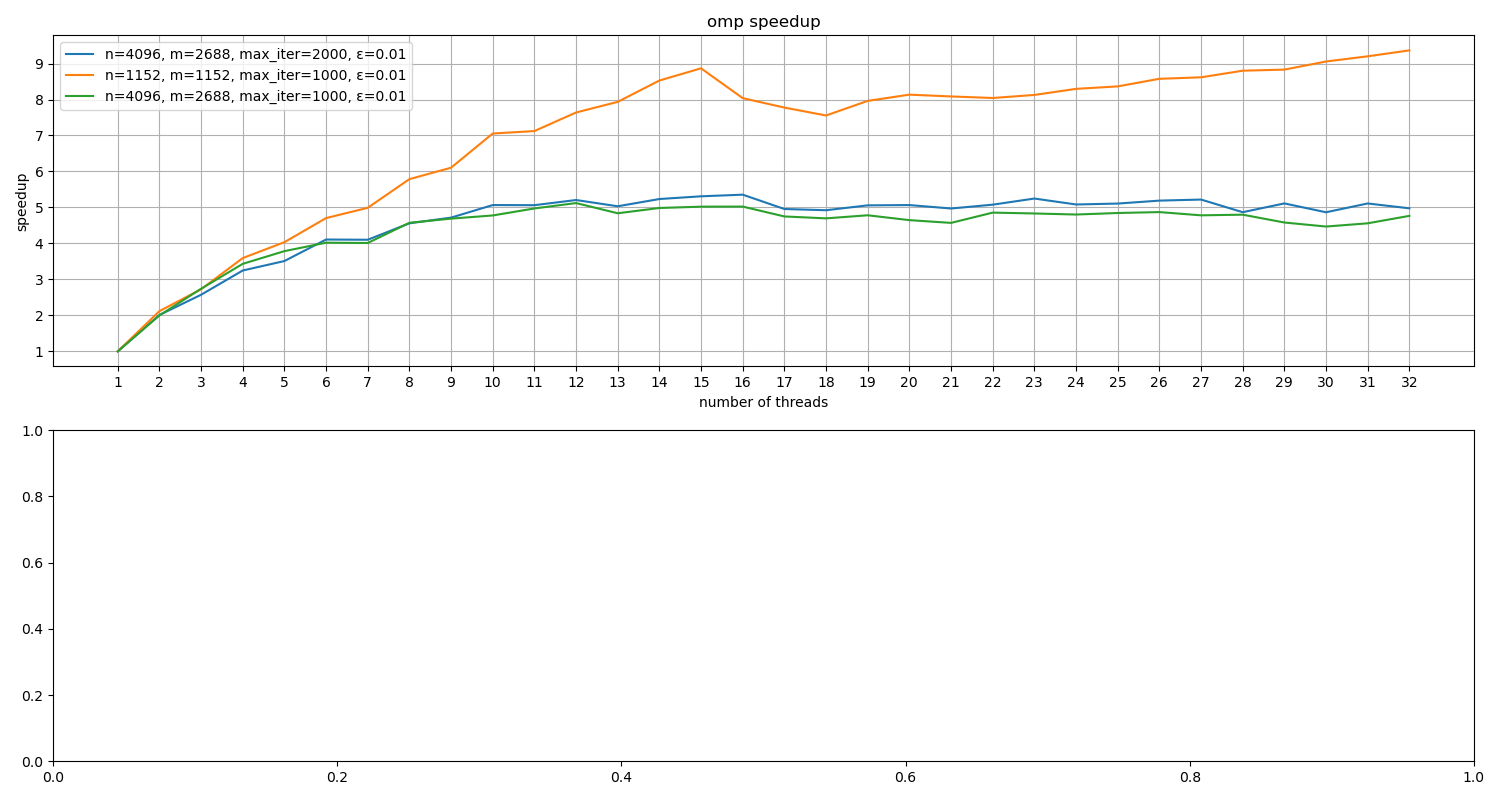
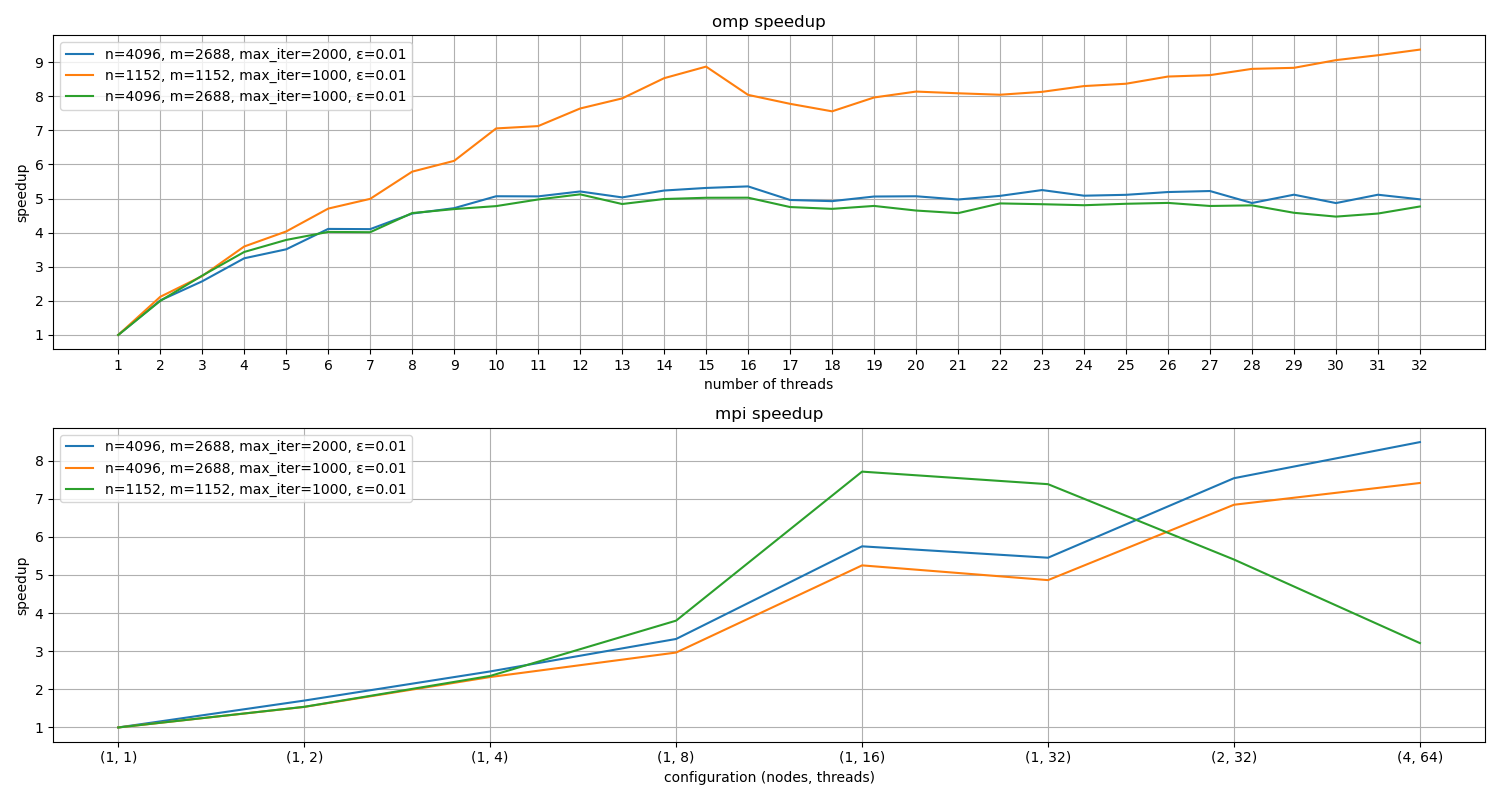
further optimize mpi version - add execution times and update python script for execution times display

diff --git a/A2/a2-mpi.cpp b/A2/a2-mpi.cpp
@@ -86,6 +86,18 @@ int main(int argc, char **argv)
     double global_diffnorm;
     int iteration_count = 0;
 
+    int start_M = 1;
+    int end_M = local_M - 1;
+
+    // Only compute interior points --> skip padding rows and boundary rows
+    if (rank == 0) {
+        start_M = 2;
+    }
+
+    if (rank == (numprocs - 1)) {
+        end_M = local_M - 2;
+    }
+
     do
     {
         iteration_count++;
@@ -126,16 +138,6 @@ int main(int argc, char **argv)
             //MPI_Recv(U[local_M-1], N, MPI_DOUBLE, rank + 1, UPWARDS_TAG, MPI_COMM_WORLD, MPI_STATUS_IGNORE);
         }
 
-        int start_M = 1;
-        int end_M = local_M - 1;
-
-        // Only compute interior points --> skip padding rows
-        if (rank == 0) {
-            start_M = 2;
-        } else if (rank == (numprocs - 1)) {
-            end_M = local_M - 2;
-        }
-
         // Compute new values (but not on boundary) 
         for (i = start_M; i < end_M; ++i){
             for (j = 1; j < N - 1; ++j)
@@ -154,8 +156,6 @@ int main(int argc, char **argv)
                 U[i][j] = W[i][j];
 
         global_diffnorm = sqrt(global_diffnorm); // all processes need to know when to stop
-
-        //cout << "Rank: " << rank << ", Iteration: " << iteration_count << ", diffnorm: " << diffnorm << ", Epsilon: " << epsilon << ", Global diffnorm: " << global_diffnorm << endl;
 
     } while (epsilon <= global_diffnorm && iteration_count < max_iterations);
 
@@ -190,7 +190,7 @@ int main(int argc, char **argv)
         return 0;
     }
 
-    auto time_mpi_2 = MPI_Wtime(); // change to MPI_Wtime() / omp_get_wtime()
+    const auto time_mpi_2 = MPI_Wtime(); // change to MPI_Wtime() / omp_get_wtime()
 
     // Print time measurements 
     cout << "Elapsed time: "; 

diff --git a/A2/plot-execution.py b/A2/plot-execution.py
@@ -33,16 +33,17 @@ for filename in omp_execution_time_files:
 
 plt.legend()
 plt.subplot(2, 1, 2)
+plt.title("mpi speedup")
+plt.xlabel("configuration (nodes, threads)")
+plt.ylabel("speedup")
+plt.grid()
 for filename in mpi_execution_time_files:
     df = pd.read_csv(filename)
 
-    plt.title("mpi speedup")
-    plt.xlabel("number of threads")
-    plt.ylabel("speedup")
-    plt.xticks()
-    plt.grid()
+    x_ticks = ("(" + df["num_nodes"].astype("str") + ", " + df["num_thread"].astype("str")) + ")"
 
-    plt.plot(df["num_thread"], df["execution-time"].iloc[0] / df["execution-time"])
+    plt.plot(x_ticks, df["execution-time"].iloc[0] / df["execution-time"], label=get_arguments_from_filename(filename))
 
+plt.legend()
 plt.tight_layout()
 plt.savefig("speedup.png")
